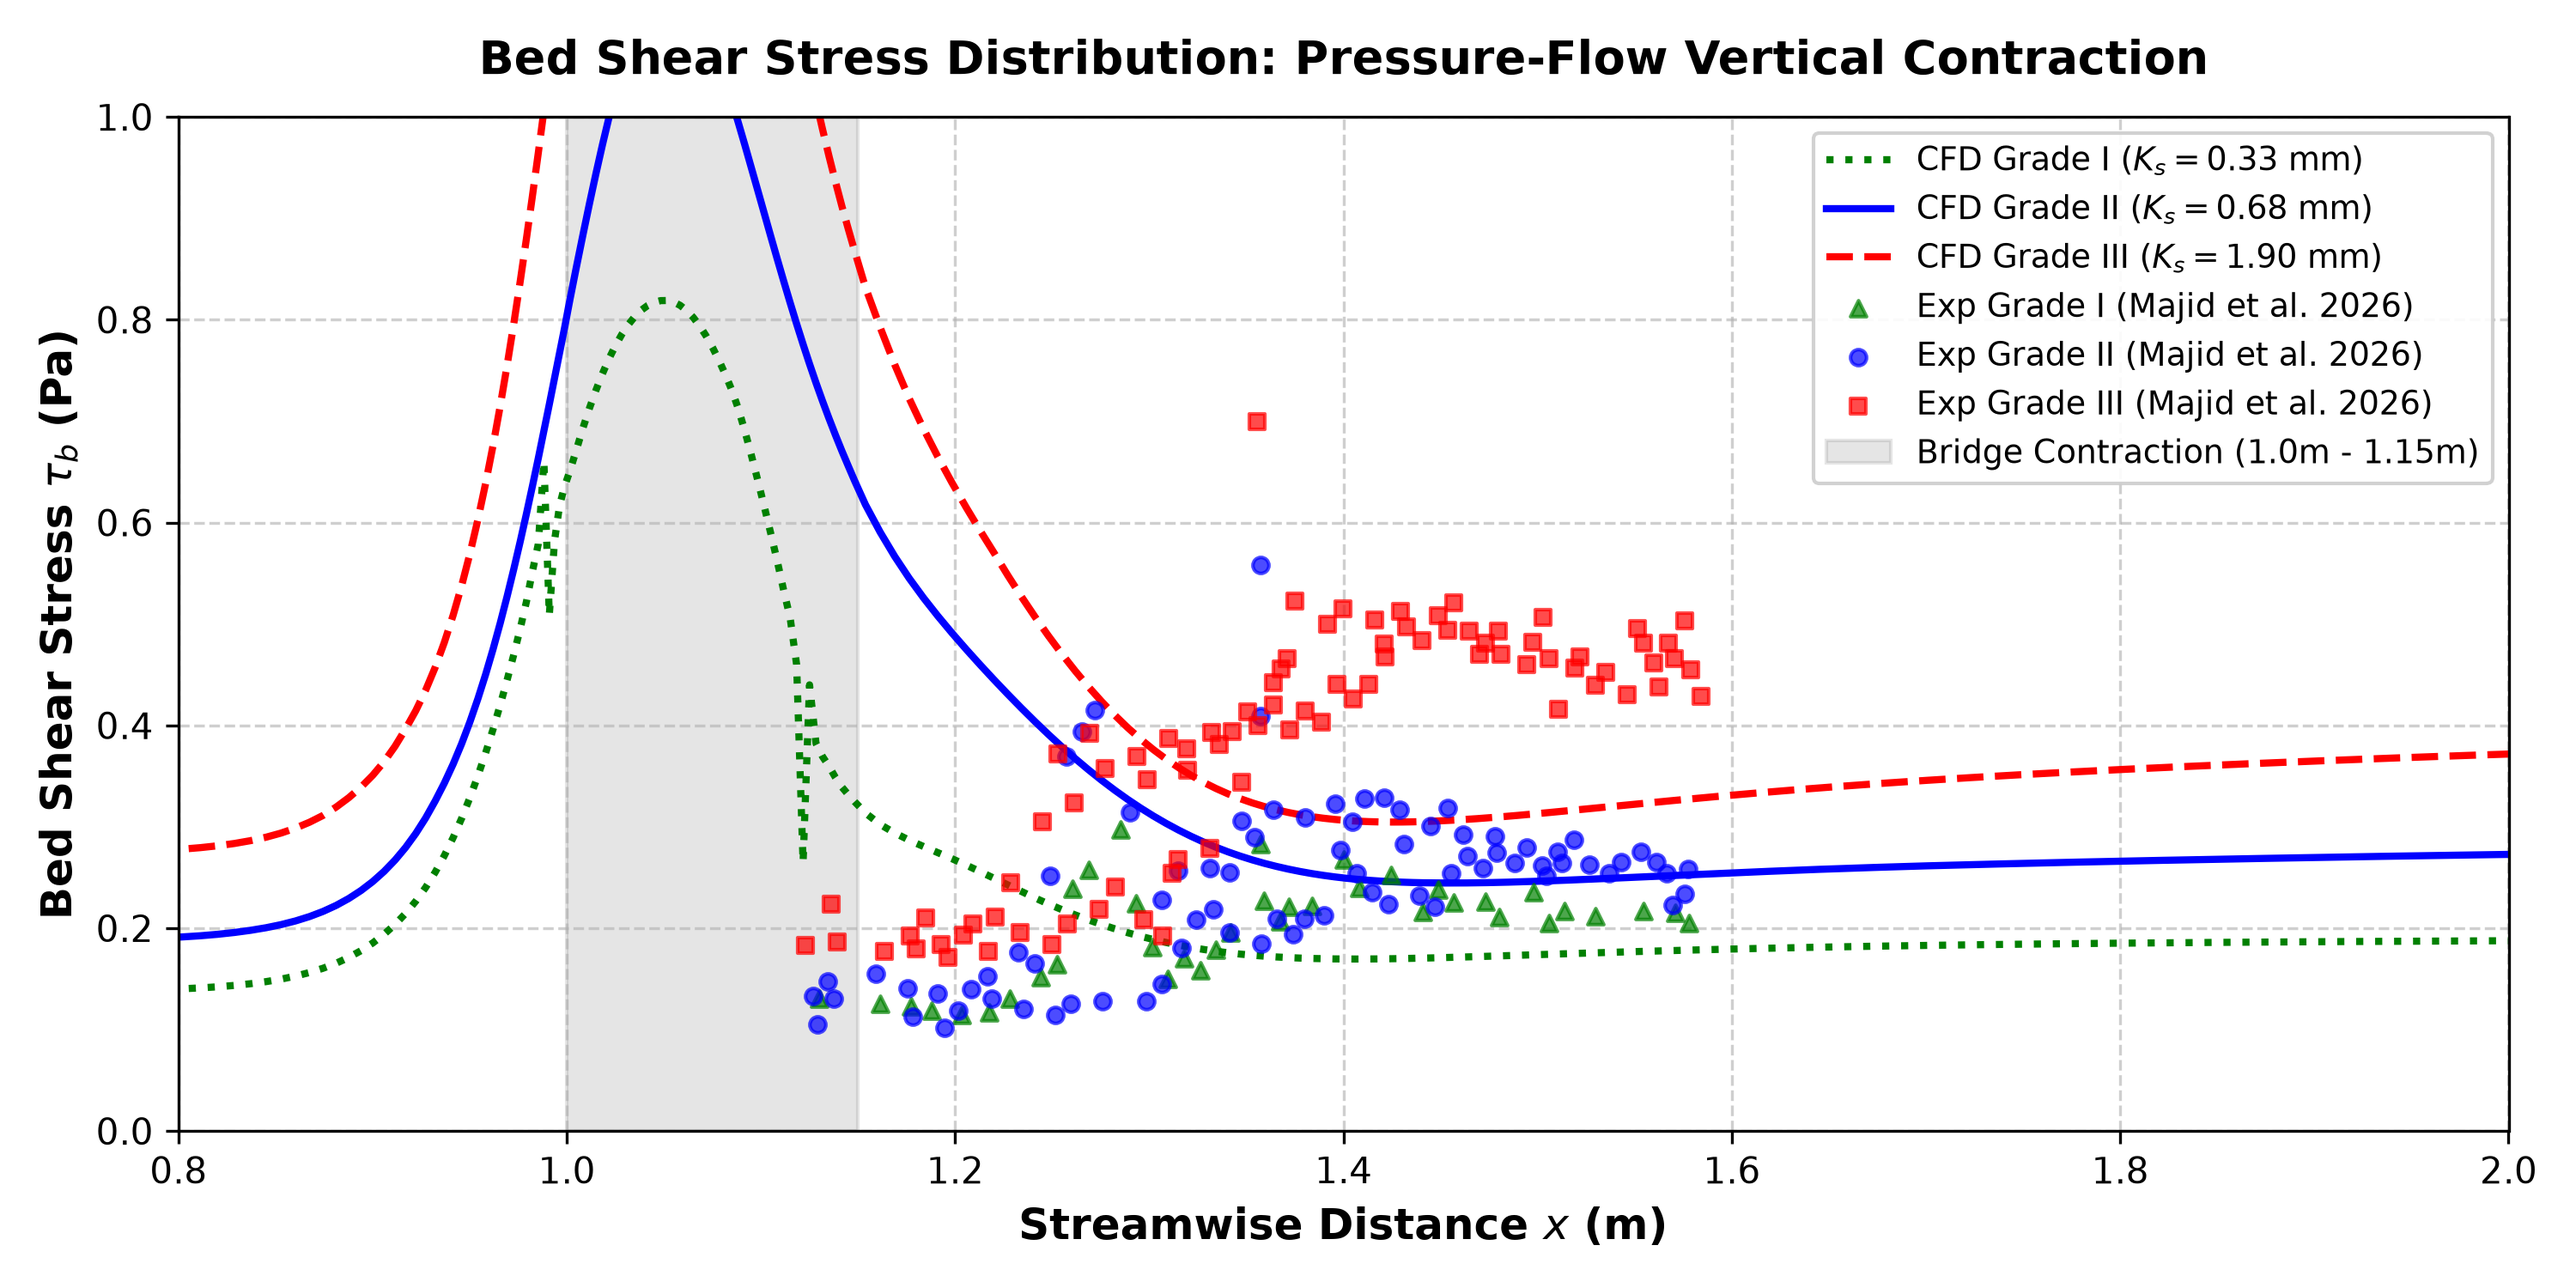
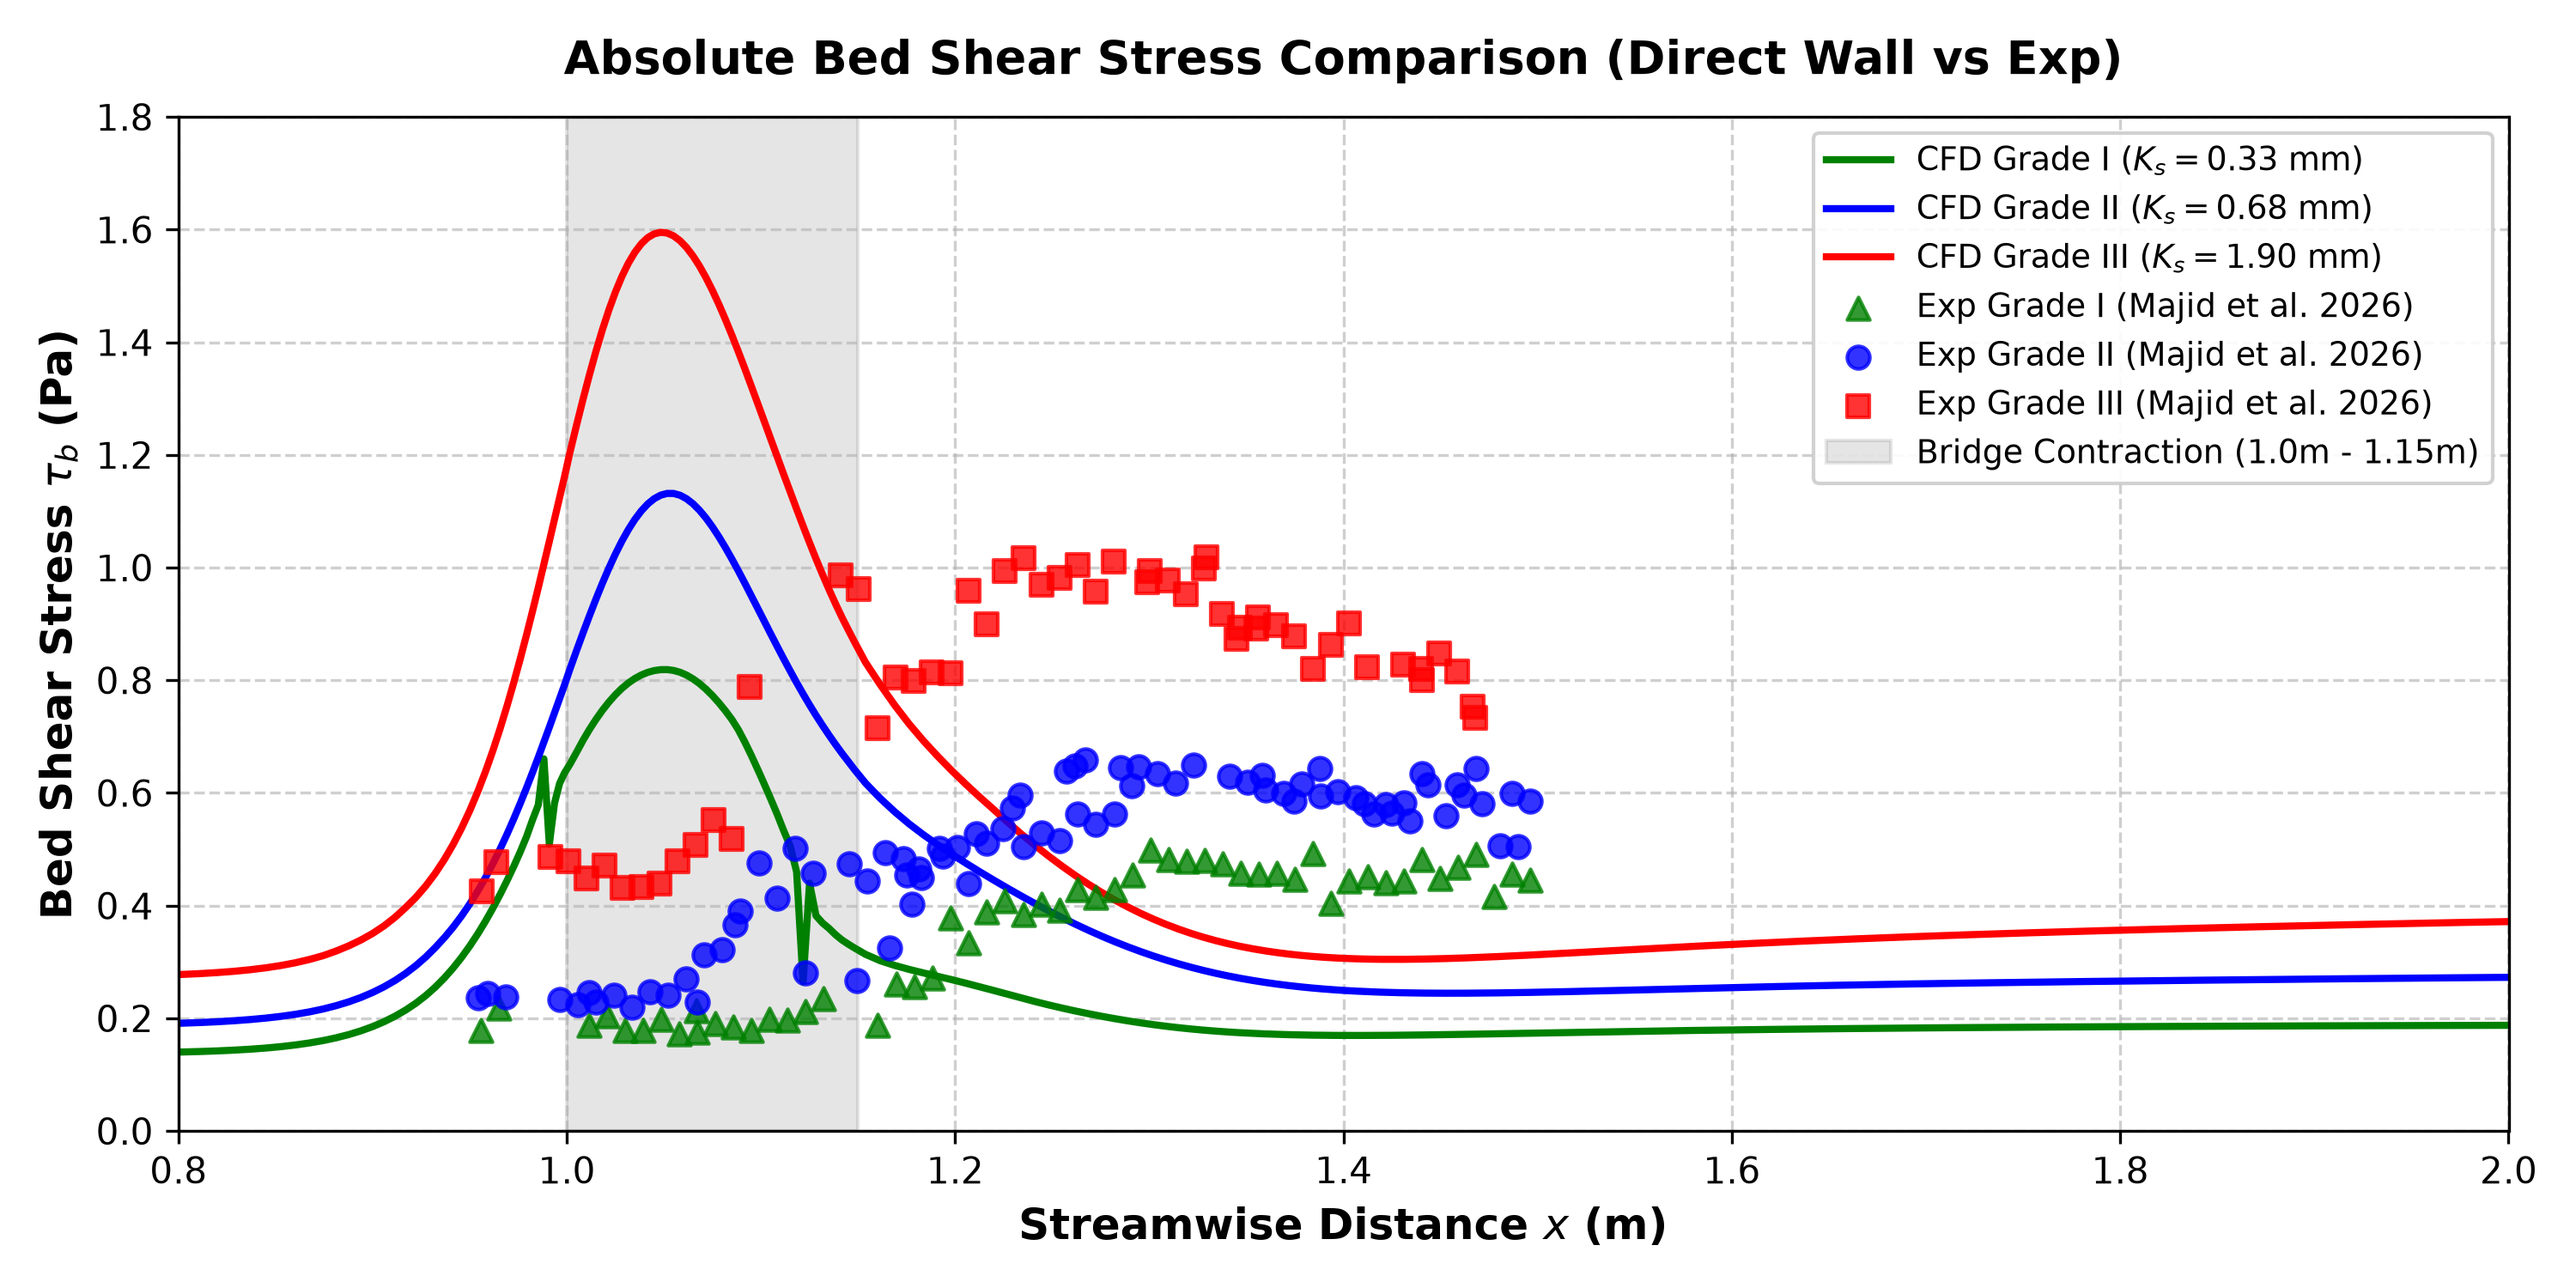
Regenerate absolute bed_shear_stress_comparison.png with corrected calibration and full domain

diff --git a/plot_comparison.py b/plot_comparison.py
@@ -79,15 +79,23 @@ try:
         exp_data = json.load(f)
     exp_x_g1 = [p["x_val"] for p in exp_data["Grade I (Green)"]]
     exp_tau_g1 = [p["y_val"] for p in exp_data["Grade I (Green)"]]
+    exp_x_phys_g1 = [p["x_phys"] for p in exp_data["Grade I (Green)"]]
+    exp_tau_abs_g1 = [p["tau_b"] for p in exp_data["Grade I (Green)"]]
+    
     exp_x_g2 = [p["x_val"] for p in exp_data["Grade II (Blue)"]]
     exp_tau_g2 = [p["y_val"] for p in exp_data["Grade II (Blue)"]]
+    exp_x_phys_g2 = [p["x_phys"] for p in exp_data["Grade II (Blue)"]]
+    exp_tau_abs_g2 = [p["tau_b"] for p in exp_data["Grade II (Blue)"]]
+    
     exp_x_g3 = [p["x_val"] for p in exp_data["Grade III (Red)"]]
     exp_tau_g3 = [p["y_val"] for p in exp_data["Grade III (Red)"]]
+    exp_x_phys_g3 = [p["x_phys"] for p in exp_data["Grade III (Red)"]]
+    exp_tau_abs_g3 = [p["tau_b"] for p in exp_data["Grade III (Red)"]]
 except Exception as e:
     print(f"Failed to load Experimental markers: {e}")
-    exp_x_g1, exp_tau_g1 = [], []
-    exp_x_g2, exp_tau_g2 = [], []
-    exp_x_g3, exp_tau_g3 = [], []
+    exp_x_g1, exp_tau_g1, exp_x_phys_g1, exp_tau_abs_g1 = [], [], [], []
+    exp_x_g2, exp_tau_g2, exp_x_phys_g2, exp_tau_abs_g2 = [], [], [], []
+    exp_x_g3, exp_tau_g3, exp_x_phys_g3, exp_tau_abs_g3 = [], [], [], []
 
 # =========================================================================
 # PART 1: Direct Wall Shear Stress Plots
@@ -201,5 +209,45 @@ plt.savefig('E:/B_ridgi/B_ridgi/bed_shear_stress_comparison_subplots_mrssm.png',
 generate_individual_plot(x_mrs_g1, tau_mrs_g1, exp_x_g1, exp_tau_g1, 'green', '^', 'Grade I ($K_s = 0.33\text{ mm}$)', 'Normalized Bed Shear Stress: Grade I (MRSSM at y=3.7mm)', 'comparison_grade_I_mrssm.png', tau_o_vals["Grade I"], is_wall=False)
 generate_individual_plot(x_mrs_g2, tau_mrs_g2, exp_x_g2, exp_tau_g2, 'blue', 'o', 'Grade II ($K_s = 0.68\text{ mm}$)', 'Normalized Bed Shear Stress: Grade II (MRSSM at y=3.7mm)', 'comparison_grade_II_mrssm.png', tau_o_vals["Grade II"], is_wall=False)
 generate_individual_plot(x_mrs_g3, tau_mrs_g3, exp_x_g3, exp_tau_g3, 'red', 's', 'Grade III ($K_s = 1.90\text{ mm}$)', 'Normalized Bed Shear Stress: Grade III (MRSSM at y=3.7mm)', 'comparison_grade_III_mrssm.png', tau_o_vals["Grade III"], is_wall=False)
+
+# =========================================================================
+# PART 3: Absolute Bed Shear Stress Comparison Plot
+# =========================================================================
+print("\n--- Generating Absolute Bed Shear Stress Comparison Plot (bed_shear_stress_comparison.png) ---")
+plt.figure(figsize=(10, 5), dpi=300)
+
+# Plot CFD curves (direct wall shear stress)
+if x_wall_g1 is not None:
+    plt.plot(x_wall_g1, tau_wall_g1, color='green', linestyle='-', linewidth=2, label=r'CFD Grade I ($K_s = 0.33\text{ mm}$)')
+if x_wall_g2 is not None:
+    plt.plot(x_wall_g2, tau_wall_g2, color='blue', linestyle='-', linewidth=2, label=r'CFD Grade II ($K_s = 0.68\text{ mm}$)')
+if x_wall_g3 is not None:
+    plt.plot(x_wall_g3, tau_wall_g3, color='red', linestyle='-', linewidth=2, label=r'CFD Grade III ($K_s = 1.90\text{ mm}$)')
+
+# Plot Experimental points
+if exp_x_phys_g1:
+    plt.scatter(exp_x_phys_g1, exp_tau_abs_g1, color='green', marker='^', s=40, alpha=0.8, label='Exp Grade I (Majid et al. 2026)', zorder=5)
+if exp_x_phys_g2:
+    plt.scatter(exp_x_phys_g2, exp_tau_abs_g2, color='blue', marker='o', s=40, alpha=0.8, label='Exp Grade II (Majid et al. 2026)', zorder=5)
+if exp_x_phys_g3:
+    plt.scatter(exp_x_phys_g3, exp_tau_abs_g3, color='red', marker='s', s=40, alpha=0.8, label='Exp Grade III (Majid et al. 2026)', zorder=5)
+
+# Highlight Bridge Contraction Region (x = 1.0 m to 1.15 m)
+plt.axvspan(1.0, 1.15, color='gray', alpha=0.2, label='Bridge Contraction (1.0m - 1.15m)')
+
+plt.xlim(0.8, 2.0)
+plt.ylim(0, 1.8)
+
+plt.xlabel('Streamwise Distance $x$ (m)', fontsize=12, fontweight='bold')
+plt.ylabel('Bed Shear Stress $\\tau_b$ (Pa)', fontsize=12, fontweight='bold')
+plt.title('Absolute Bed Shear Stress Comparison (Direct Wall vs Exp)', fontsize=13, fontweight='bold', pad=12)
+plt.grid(True, linestyle='--', alpha=0.6)
+plt.legend(loc='upper right', frameon=True, facecolor='white', framealpha=0.9, fontsize=9)
+plt.tight_layout()
+
+output_abs_plot = 'E:/B_ridgi/B_ridgi/bed_shear_stress_comparison.png'
+plt.savefig(output_abs_plot, dpi=300)
+plt.close()
+print(f"Absolute validation plot successfully saved to {output_abs_plot}")
 
 print("All plots successfully generated!")
